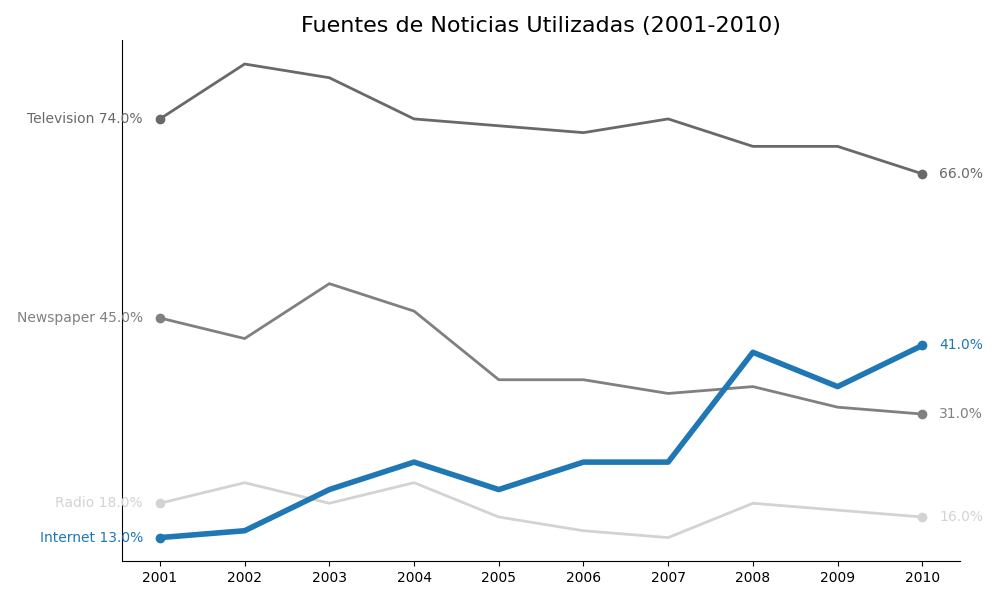
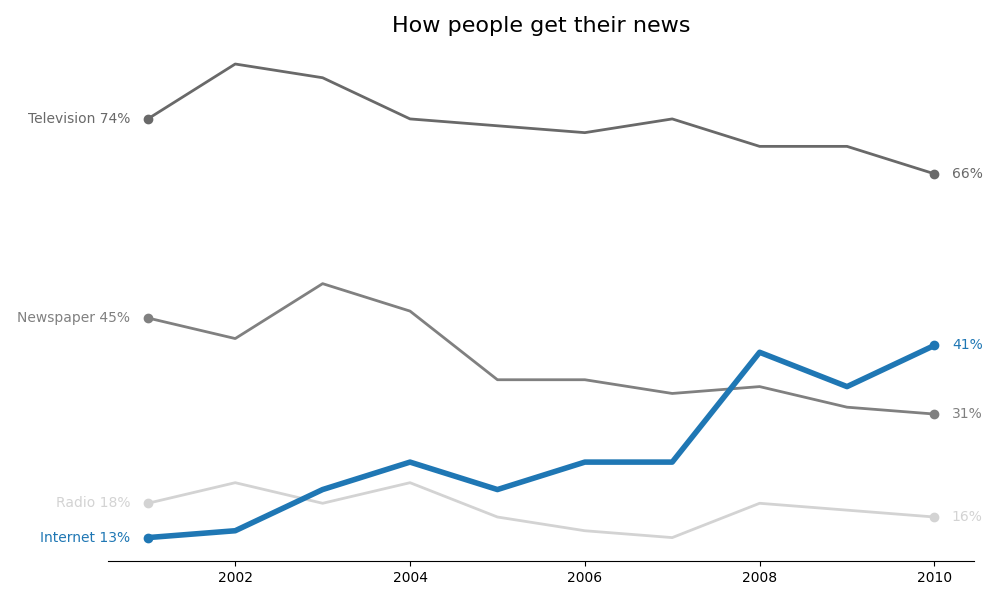
LABsolucion

diff --git a/homework/pregunta_01.py b/homework/pregunta_01.py
@@ -1,9 +1,10 @@
+# pylint: disable=line-too-long
 """
-Escriba el codigo que ejecute la accion solicitada en cada pregunta.
+Escriba el codigo que ejecute la accion solicitada.
 """
-
-# pylint: disable=import-outside-toplevel
-
+import os
+import matplotlib.pyplot as plt
+import pandas as pd
 
 def pregunta_01():
     """
@@ -16,84 +17,70 @@ def pregunta_01():
     El gráfico debe salvarse al archivo `files/plots/news.png`.
 
     """
-    import pandas as pd
-    import matplotlib.pyplot as plt
+    input_path = 'files/input/news.csv' 
+    output_path = 'files/plots/news.png'
 
-    df = pd.read_csv('files/input/news.csv', index_col=0)
+    output_dir = os.path.dirname(output_path)
+    if not os.path.exists(output_dir):
+        os.makedirs(output_dir)
+
+    df = pd.read_csv(input_path, index_col=0)
+
     colors = {
-        'Television': 'dimgrey',  # Gris oscuro
-        'Newspaper': 'grey',      # Gris intermedio
-        'Radio': 'lightgrey',     # Gris claro
-        'Internet': 'tab:blue'    # Azul para destacar
+        'Television': 'dimgrey',
+        'Newspaper': 'grey',
+        'Radio': 'lightgrey',
+        'Internet': 'tab:blue'  
     }
-
-    z_order = {
+    
+    zorders = {
         'Television': 1,
         'Newspaper': 1,
         'Radio': 1,
-        'Internet': 2  # Queda por encima de las demás líneas [00:06:08]
+        'Internet': 2  
     }
-
-    line_widths = {
+    
+    linewidths = {
         'Television': 2,
         'Newspaper': 2,
         'Radio': 2,
-        'Internet': 4  # Línea más gruesa [00:07:17]
+        'Internet': 4  
     }
 
-    first_year = df.index[0]
-    last_year = df.index[-1]
-
-    # 3. Inicializar la Figura y el Título
     plt.figure(figsize=(10, 6))
-    plt.title("Fuentes de Noticias Utilizadas (2001-2010)", fontsize=16)
-
+    
     for col in df.columns:
         plt.plot(
-            df.index,
-            df[col],
-            color=colors[col],
-            linewidth=line_widths[col],
-            zorder=z_order[col]
+            df.index, 
+            df[col], 
+            color=colors[col], 
+            label=col, 
+            linewidth=linewidths[col],
+            zorder=zorders[col]
         )
 
-    plt.gca().spines['right'].set_visible(False)
-    plt.gca().spines['top'].set_visible(False)
+    plt.title("How people get their news", fontsize=16)
+    
 
-    plt.gca().get_yaxis().set_visible(False)
+    plt.gca().spines['top'].set_visible(False)
+    plt.gca().spines['right'].set_visible(False)
+    plt.gca().spines['left'].set_visible(False) 
+    
+    plt.gca().axes.get_yaxis().set_visible(False) 
 
     for col in df.columns:
+        first_year = df.index[0]
+        last_year = df.index[-1]
+        first_val = df.loc[first_year, col]
+        last_val = df.loc[last_year, col]
+        
 
-        y_start = df.loc[first_year, col]
-        y_end = df.loc[last_year, col]
+        plt.scatter(first_year, first_val, color=colors[col], zorder=zorders[col])
+        plt.scatter(last_year, last_val, color=colors[col], zorder=zorders[col])
 
-        plt.scatter(first_year, y_start, color=colors[col], zorder=z_order[col])
-        plt.scatter(last_year, y_end, color=colors[col], zorder=z_order[col])
-
-        plt.text(
-            first_year - 0.2,
-            y_start,
-            f"{col.capitalize()} {y_start:.1f}%",
-            horizontalalignment='right',
-            verticalalignment='center',
-            color=colors[col],
-            fontsize=10
-        )
-
-        plt.text(
-            last_year + 0.2,
-            y_end,
-            f"{y_end:.1f}%",
-            horizontalalignment='left',
-            verticalalignment='center',
-            color=colors[col],
-            fontsize=10
-        )
-
-
-    plt.xticks(df.index, df.index.astype(str), horizontalalignment='center')
-
+        plt.text(first_year - 0.2, first_val, f'{col} {first_val}%', ha='right', va='center', color=colors[col])
+        plt.text(last_year + 0.2, last_val, f'{last_val}%', ha='left', va='center', color=colors[col])
 
     plt.tight_layout()
 
-    plt.savefig('files/plots/news.png')
+    plt.savefig(output_path)
